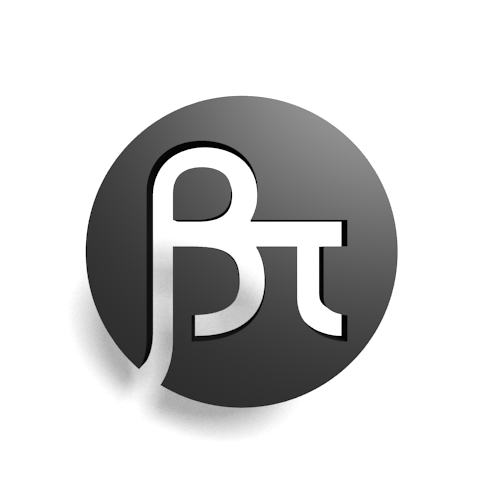
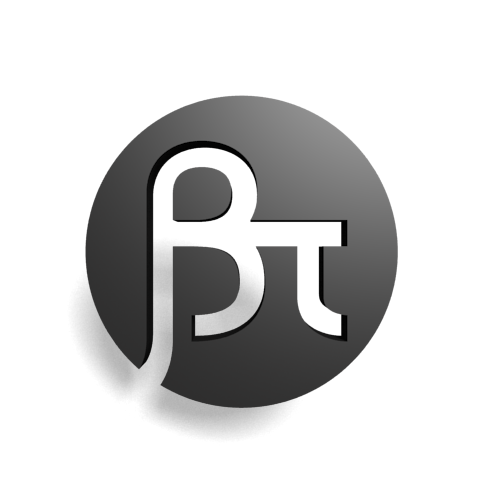
Update supporting.html, update images
- PayPal donation link fixed
- Added thankyou.html thank you page for support
- Images now have alpha

diff --git a/thankyou.html b/thankyou.html
@@ -1,7 +1,7 @@
 <!DOCTYPE html>
 
 <!------------>
-<!-- Biotic Pixels 11/03/2014 05:22 -->
+<!-- Biotic Pixels 6 August 2014 07:13:22 -->
 <!------------>
 
 <html>
@@ -33,17 +33,17 @@
                 <!------------>
                 <!-- Heading Two -->
                 <!------------>
-                <h2>Supporting</h2>
+                <h2>Thank You!</h2>
+                
+                <!------------>
+                <!-- Main text -->
+                <!------------ start -->
 
+                <p>Thank you for donating!</p>
+                
                 <!------------>
-                <!-- Navigation -->
-                <!------------>
-                <nav>
-                    <ul>
-                        <li><a href="https://www.paypal.com/cgi-bin/webscr?cmd=_s-xclick&hosted_button_id=3S3P7U9GBDV6C" title="Donate via PayPal">Donate via PayPal</a> |</li>
-                        <li><a href="mailto:bioticpixels@gmail.com" title="bioticpixel@gmail.com">Email</a></li>
-                    </ul>
-                </nav>
+                <!-- Main text -->
+                <!------------ end -->
                 
             </div>
 

diff --git a/css/index.css b/css/index.css
@@ -180,39 +180,10 @@ li {
 @TODO Javascript does not function selectors in media queries.
 */
 
-/*
-@TODO 14 July 2014 09:25:26 Text positions in index.html and supporting.html are slightly different.
-*/
-
 #donating h2 {
     display: none;
 }
 
-#donating form {
-    display: inline;
-}
-
-#donating #inlineP {
-    display: inline;
-    padding: 0;
-}
-
 #bioticPixelsImageLink {
     line-height: 0;
-}
-
-#donating input[type='submit'] {
-    border: none;
-    color: #007edf;
-    background: none;
-    padding: 0;
-    text-decoration: line-through;
-    width: auto;
-    height: auto;
-}
-#donating input:hover {
-    cursor: pointer;
-}
-#donating input:active {
-
 }

diff --git a/javascript/supporting.js b/javascript/supporting.js
@@ -14,9 +14,6 @@
             [300, 40],
             ["h1",
                 ["fontSize", 1], ["marginTop", -0.7], ["paddingBottom", 0.76]
-            ],
-            ["#articles",
-                ["top", 0.2]
             ]
         ],
         [
@@ -41,12 +38,6 @@
             [256, 14],
             ["p, nav, a, ul, li, form, input",
                 ["fontSize", 1]
-            ],
-            ["#donating form",
-                ["marginTop", 0.4]
-            ],
-            ["#donating input",
-                ["width", 5]
             ]
         ]
     ];
